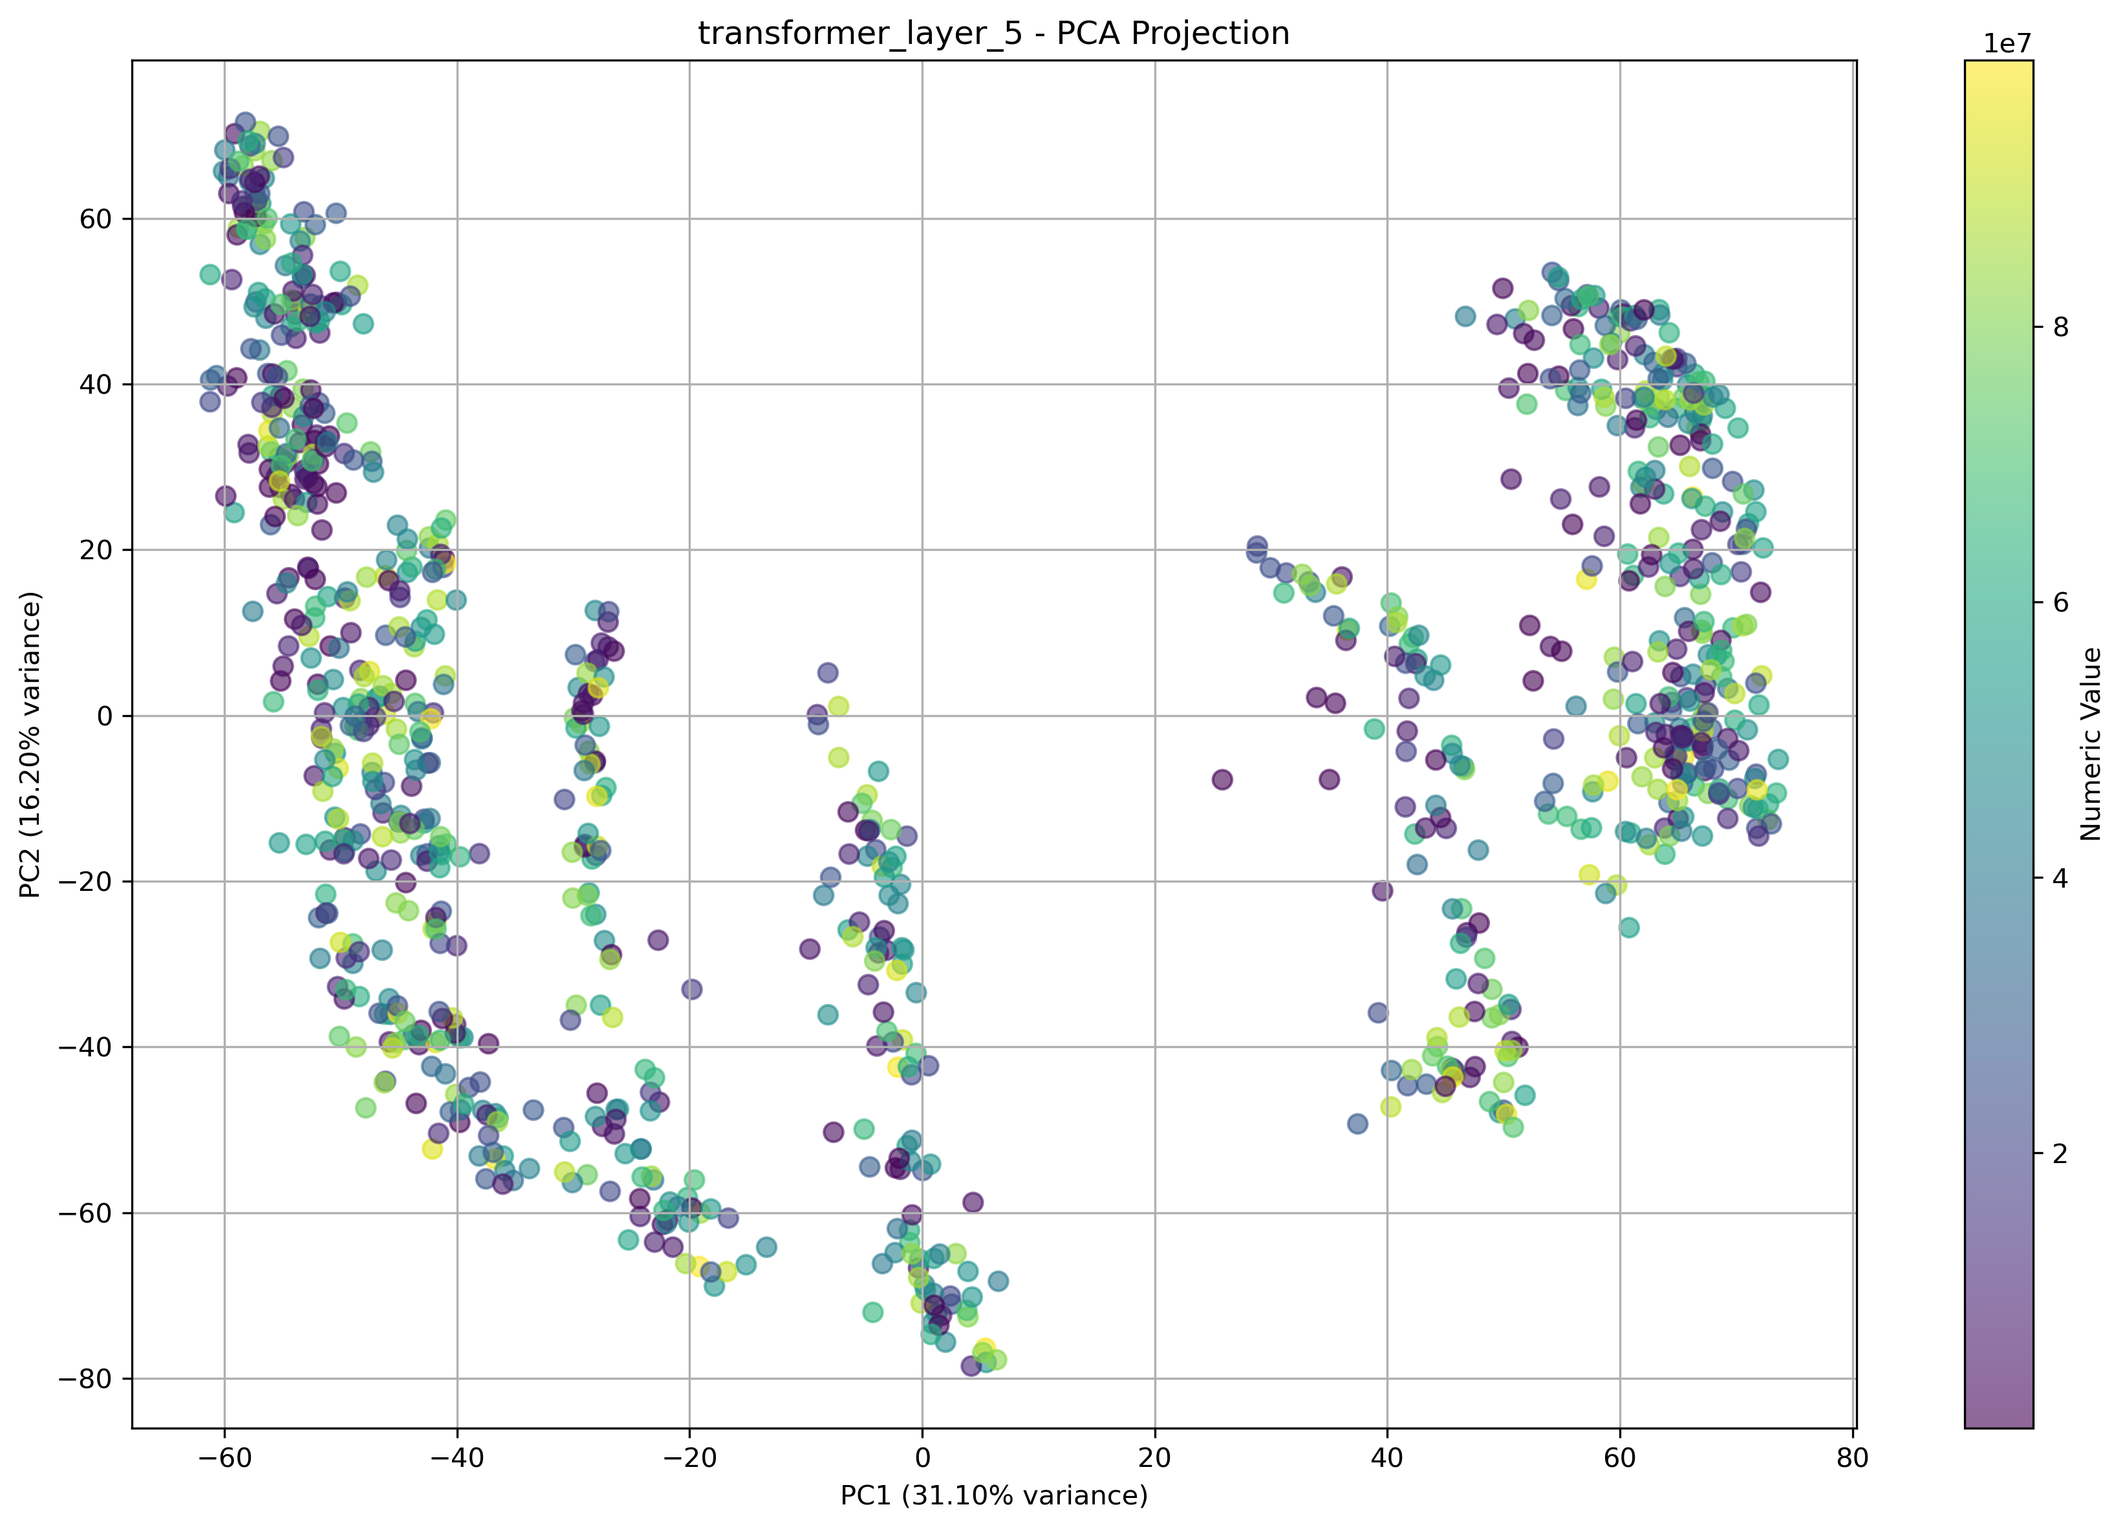
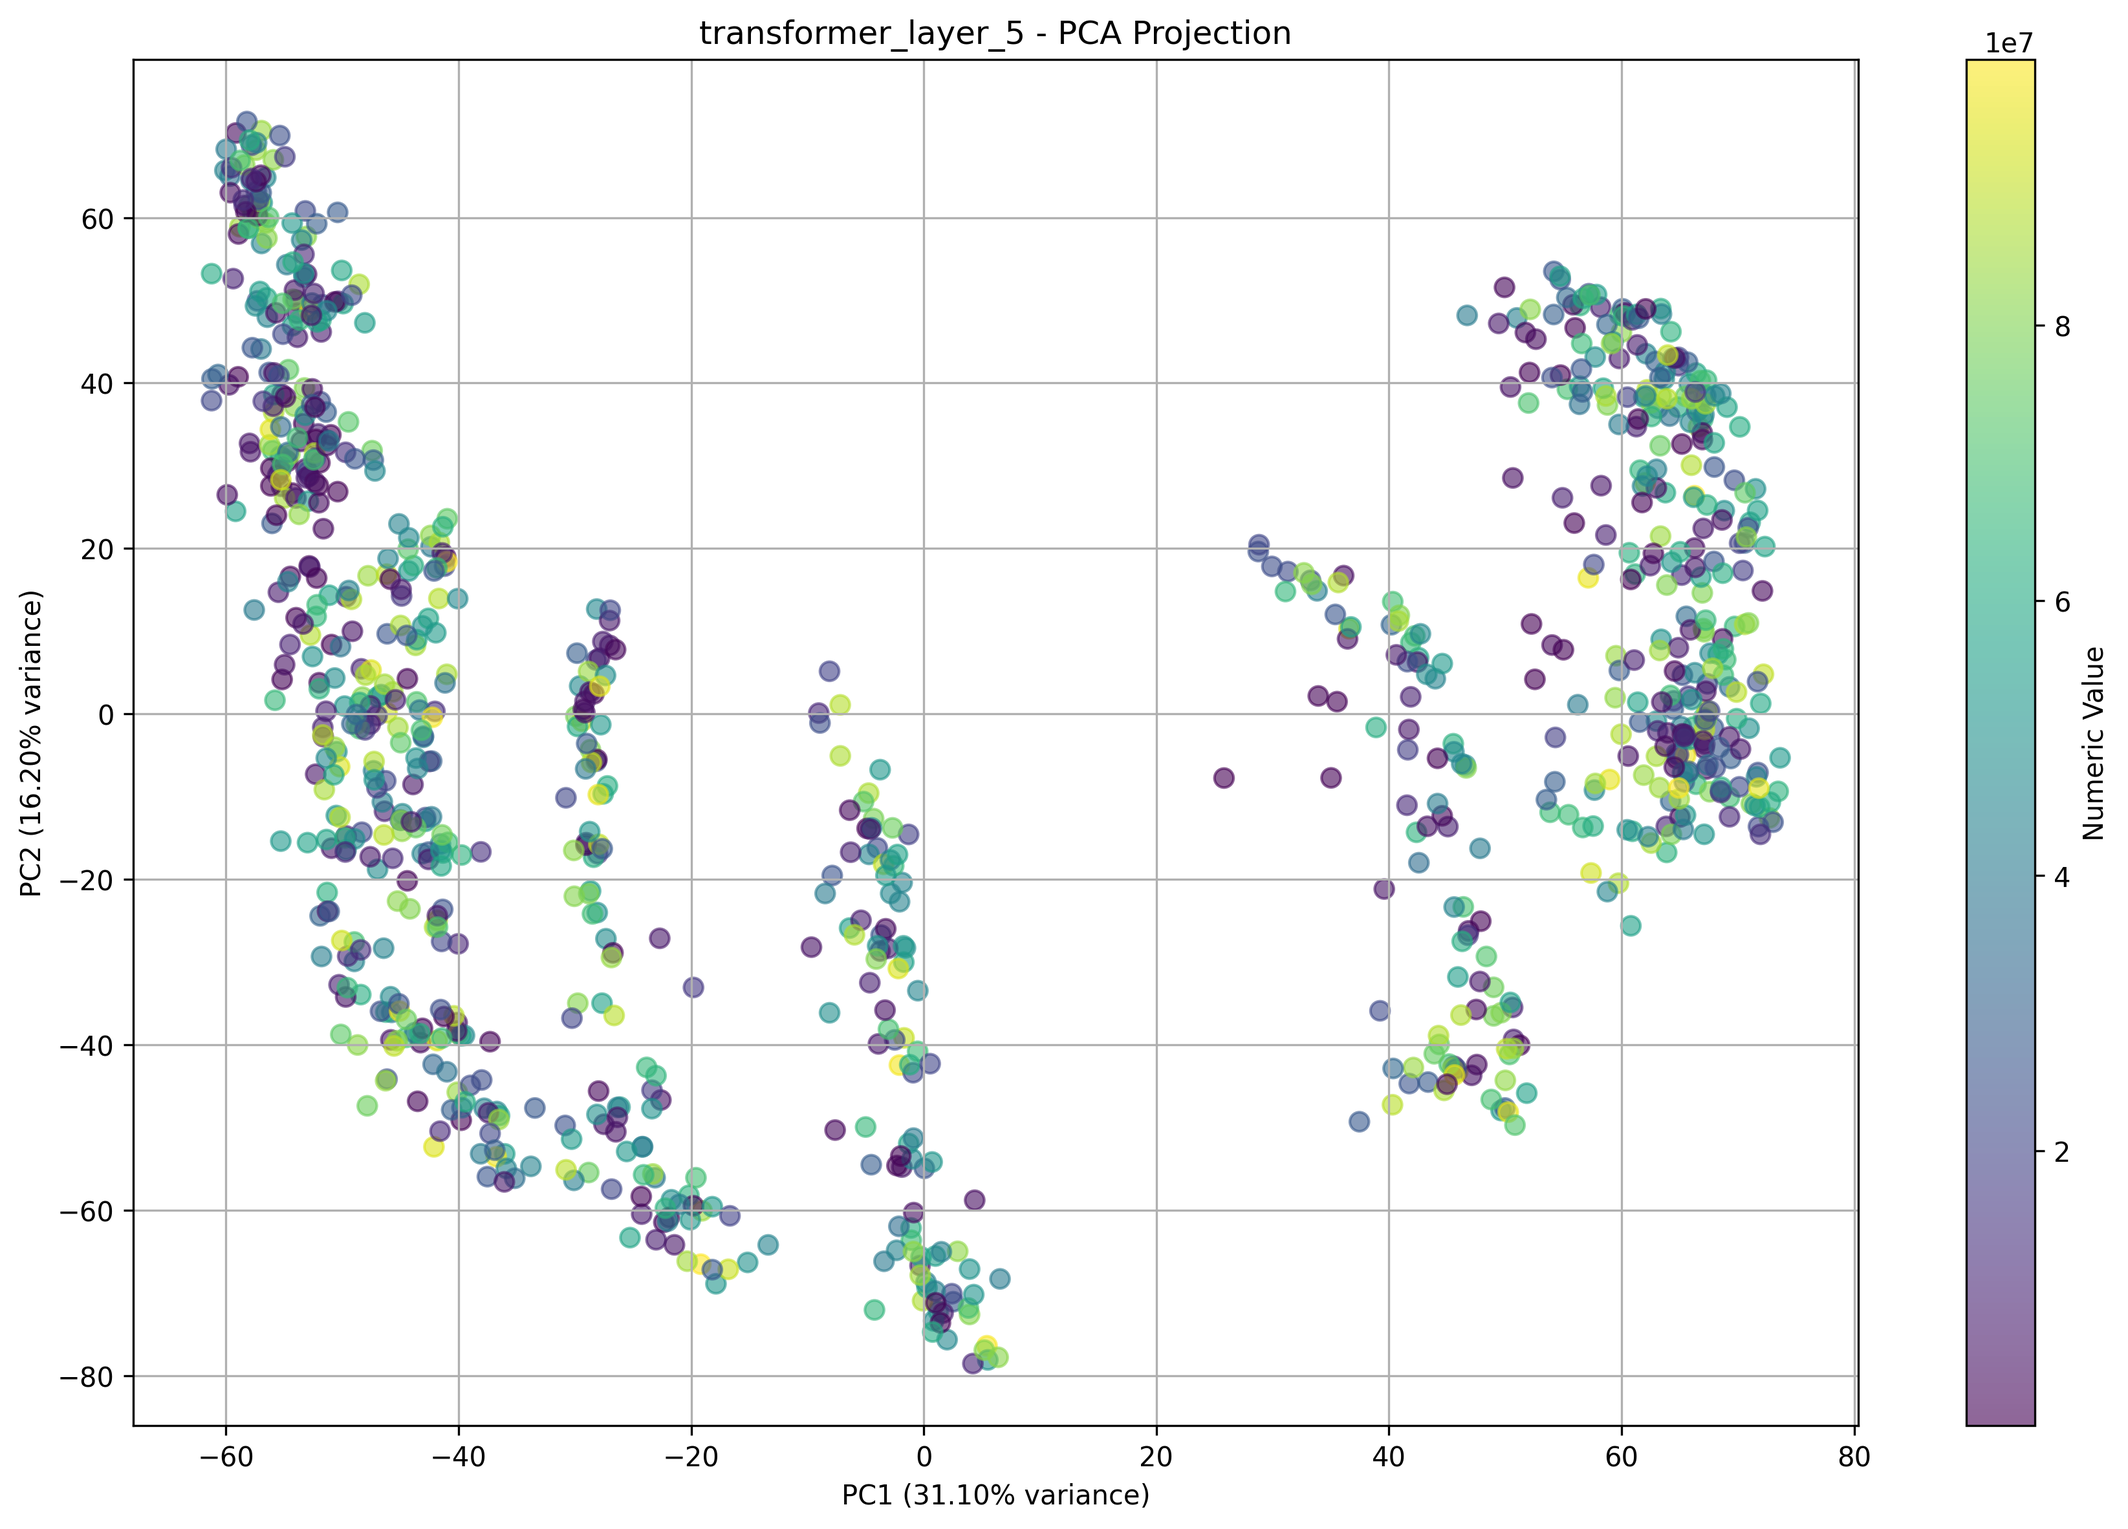
scale up pca

diff --git a/plotting/analyze_activations.py b/plotting/analyze_activations.py
@@ -1,4 +1,5 @@
 # # # analyze_activations.py
+#%% 
 
 import numpy as np
 from sklearn.decomposition import PCA
@@ -7,6 +8,11 @@ import os
 import seaborn as sns
 import argparse
 from typing import Dict, List, Tuple
+import plotly.graph_objects as go
+import sys
+
+#%% 
+
 def extract_labels_from_expressions(expressions_file: str) -> Tuple[List[str], np.ndarray]:
     """Extract sequences and convert them to numbers"""
     full_labels = []
@@ -15,15 +21,19 @@ def extract_labels_from_expressions(expressions_file: str) -> Tuple[List[str], n
     with open(expressions_file, 'r') as f:
         for line in f:
             parts = line.strip().split('#')
-            if len(parts) > 1:
-                sequence = parts[-1].strip()
-                full_labels.append(sequence)
+            parts2 = line.strip().split('||')
+            if len(parts) > 1 and len(parts2) > 1:
+                input = parts2[0].strip()[::-1]
+                output = parts[-1].strip()[::-1]
+                full_labels.append(f"{input} || {output}")
                 # Convert space-separated sequence to single number
-                num = int(''.join(sequence.split()))
+                num = int(''.join(output.split()))
                 numeric_values.append(num)
-    
     return full_labels, np.array(numeric_values)
 
+full_labels, numeric_values = extract_labels_from_expressions("data/4_by_4_mult/test_bigbench.txt")
+print(full_labels)
+#%% 
 def load_activations_with_labels(activation_dir: str, expressions_file: str):
     """Load activations from final folder and their corresponding labels"""
     full_labels, numeric_values = extract_labels_from_expressions(expressions_file)
@@ -69,30 +79,40 @@ def analyze_pca_with_math_labels(
         pca = PCA(n_components=2)
         transformed = pca.fit_transform(acts)
         
-        # Create scatter plot
-        plt.figure(figsize=(12, 8))
+        # Create interactive scatter plot with plotly
+        fig = go.Figure()
         
-        # Plot each point colored by its numeric value
-        scatter = plt.scatter(
-            transformed[:, 0], 
-            transformed[:, 1], 
-            c=numeric_values,
-            cmap='viridis',
-            alpha=0.6,
-            s=50
+        fig.add_trace(go.Scatter(
+            x=transformed[:, 0],
+            y=transformed[:, 1],
+            mode='markers',
+            marker=dict(
+                size=8,
+                color=numeric_values,
+                colorscale='Viridis',
+                colorbar=dict(title='Numeric Value'),
+                opacity=0.6
+            ),
+            text=full_labels,  # Add hover text showing full labels
+            hovertemplate='<b>Value:</b> %{marker.color}<br>' +
+                         '<b>Label:</b> %{text}<br>' +
+                         '<b>PC1:</b> %{x:.2f}<br>' +
+                         '<b>PC2:</b> %{y:.2f}<extra></extra>'
+        ))
+        
+        # Update layout
+        fig.update_layout(
+            title=f'{layer_name} - PCA Projection',
+            xaxis_title=f'PC1 ({pca.explained_variance_ratio_[0]:.2%} variance)',
+            yaxis_title=f'PC2 ({pca.explained_variance_ratio_[1]:.2%} variance)',
+            width=1000,
+            height=800,
+            template='plotly_white'  # Clean white background with grid
         )
         
-        # Add a colorbar
-        cbar = plt.colorbar(scatter)
-        cbar.set_label('Numeric Value')
-        
-        plt.title(f'{layer_name} - PCA Projection')
-        plt.xlabel(f'PC1 ({pca.explained_variance_ratio_[0]:.2%} variance)')
-        plt.ylabel(f'PC2 ({pca.explained_variance_ratio_[1]:.2%} variance)')
-        plt.grid(True)
-        plt.tight_layout()
-        plt.savefig(os.path.join(save_dir, f'{layer_name}_pca.png'), dpi=300, bbox_inches='tight')
-        plt.close()
+        # Show plot interactively
+        fig.show()
+        fig.write_image(os.path.join(save_dir, f'{layer_name}_pca.png'), scale=2)
 
 # def extract_labels_from_expressions(expressions_file: str) -> List[str]:
 #     """Extract full sequence labels from math expressions (all numbers after #)"""
@@ -340,18 +360,30 @@ def analyze_pca_with_math_labels(
 #     main()
 
 def main():
-    parser = argparse.ArgumentParser()
-    parser.add_argument('--activation_dir', type=str, required=True,
-                      help='Directory containing activation files')
-    parser.add_argument('--expressions_file', default='data/4_by_4_mult/test_bigbench.txt', type=str, required=True,
-                      help='File containing math expressions with labels')
-    parser.add_argument('--save_dir', type=str, default='pca_results_labels',
-                      help='Directory to save PCA results')
-    parser.add_argument('--visualization', type=str, default='both',
-                      choices=['scatter', 'density', 'both'],
-                      help='Type of visualization to generate')
-    args = parser.parse_args()
+    # Check if we're in a notebook environment
+    in_notebook = 'ipykernel' in sys.modules
     
+    if not in_notebook:
+        parser = argparse.ArgumentParser()
+        parser.add_argument('--activation_dir', type=str, required=True,
+                          help='Directory containing activation files')
+        parser.add_argument('--expressions_file', default='data/4_by_4_mult/test_bigbench.txt', type=str,
+                          help='File containing math expressions with labels')
+        parser.add_argument('--save_dir', type=str, default='pca_results_labels_2',
+                          help='Directory to save PCA results')
+        parser.add_argument('--visualization', type=str, default='both',
+                          choices=['scatter', 'density', 'both'],
+                          help='Type of visualization to generate')
+        args = parser.parse_args()
+    else:
+        # Default values for notebook environment
+        class Args:
+            def __init__(self):
+                self.activation_dir = "cached_activations"
+                self.expressions_file = "data/4_by_4_mult/test_bigbench.txt"
+                self.save_dir = "pca_results_labels_2"
+                self.visualization = "both"
+        args = Args()
     # print(f"Loading activations and labels...")
     # activations, labels = load_activations_with_labels(args.activation_dir, args.expressions_file)
     
@@ -375,3 +407,5 @@ def main():
 if __name__ == "__main__":
     main()
 
+
+# %%

diff --git a/src/activation_utils.py b/src/activation_utils.py
@@ -8,7 +8,7 @@ class ActivationCache:
         self.cache_dir = cache_dir
         self.activations: Dict[str, list] = {}  # layer_name -> list of activations
         self.input_length = None
-        self.first_pred_captured = False
+        self.first_pred_captured = {} # layer_name -> bool 
         self.checkpoint_every = checkpoint_every
         self.sample_count = 0
         os.makedirs(cache_dir, exist_ok=True)
@@ -16,23 +16,28 @@ class ActivationCache:
     def set_input_length(self, length: int):
         """Set the input length to know when prediction starts"""
         self.input_length = length
-        self.first_pred_captured = False
+        self.first_pred_captured = { layer_name: False for layer_name in self.activations.keys() }
         
     def cache_activation(self, activation: Union[torch.Tensor, Tuple], layer_name: str):
         """Cache activation for the first prediction token only"""
         if isinstance(activation, tuple):
             activation = activation[0]
         
-        # Only cache if this is the first prediction token
-        if activation.size(1) == 1 and not self.first_pred_captured:
+        # # Only cache if this is the first prediction token
+        # if activation.size(1) == 1 and not self.first_pred_captured:
+        if activation.size(1) == 1:
             # Take the activation for the last position (first prediction token)
             pred_activation = activation[:, -1, :]
             act_np = pred_activation.detach().cpu().numpy()
             
             if layer_name not in self.activations:
                 self.activations[layer_name] = []
+                self.first_pred_captured[layer_name] = False 
             
+            if self.first_pred_captured[layer_name]:
+                return 
             self.activations[layer_name].append(act_np)
+
             
             # Only count sample once per input (not per layer)
             if layer_name == sorted(self.activations.keys())[0]:  # Count only for first layer
@@ -42,7 +47,7 @@ class ActivationCache:
                 if self.sample_count % self.checkpoint_every == 0:
                     self.save_checkpoint()
             
-            self.first_pred_captured = True
+            self.first_pred_captured[layer_name] = True
     
     def save_checkpoint(self):
         """Save current activations as a checkpoint"""
@@ -67,18 +72,16 @@ class ActivationCache:
                     combined = np.concatenate(acts, axis=0)
                     save_path = os.path.join(final_dir, f"{layer_name}_first_pred.npy")
                     np.save(save_path, combined)
-                    print(f"Final: Saved {layer_name} activations of shape {combined.shape} to {save_path}")
             
     def clear(self):
         """Clear the activation cache"""
         self.activations.clear()
-        self.first_pred_captured = False
+        self.first_pred_captured = { layer_name: False for layer_name in self.activations.keys() }
 
 def get_activation_hook(cache: ActivationCache, layer_name: str):
     """Creates a hook function for capturing activations"""
-    def hook(module, input, output):
-        cache.cache_activation(output, layer_name)
-    return hook
+    # def hook(module, input, output):
+    return lambda module, input, output: cache.cache_activation(output, layer_name)
 
 def get_layer_by_name(model, layer_name: str):
     """Get a specific layer from the model based on the layer name"""
@@ -94,7 +97,9 @@ def attach_hooks_to_layers(model, layer_names: list, cache: ActivationCache):
     """Attach hooks to multiple layers in the model"""
     hooks = []
     for layer_name in layer_names:
+        print(f"Attaching hook to {layer_name}")
         layer = get_layer_by_name(model, layer_name)
-        hook = layer.register_forward_hook(get_activation_hook(cache, layer_name))
+        hook = layer.register_forward_hook(get_activation_hook(cache, layer_name), always_call=True)
         hooks.append(hook)
+    print(f"Attached {len(hooks)} hooks, {cache.activations}")
     return hooks

diff --git a/src/generate.py b/src/generate.py
@@ -36,11 +36,11 @@ def evaluate(dataloader, tokenizer, device, ctx, model, max_new_tokens,  layer_n
         from activation_utils import ActivationCache, attach_hooks_to_layers
         activation_cache = ActivationCache(cache_dir)
         hooks = attach_hooks_to_layers(model, layer_names, activation_cache)
-
+        print(f'hooks: {hooks}')
     try:
 
         for batch in tqdm.tqdm(dataloader):
-            input_ids_all = batch['input_ids_all']
+            input_ids_all = batch['input_ids_all'].to(device)
             labels = batch['labels_all']
             sep_positions = get_sep_position(input_ids_all, tokenizer.eos_token_id)
             input_ids = input_ids_all[:, :sep_positions.max()+1]
@@ -50,7 +50,6 @@ def evaluate(dataloader, tokenizer, device, ctx, model, max_new_tokens,  layer_n
             # Set input length for activation caching
             if activation_cache is not None:
                 activation_cache.set_input_length(input_ids.size(1))
-
             # Generate
             start_time = time.time()
             beam_output = model.generate(
@@ -76,12 +75,11 @@ def evaluate(dataloader, tokenizer, device, ctx, model, max_new_tokens,  layer_n
                 print (f'Target: {tgt_text}')
                 print (f'Predicted: {pred_text}')
                 print ('')
-
-            
-                
             
             if layer_names and activation_cache is not None:
                 activation_cache.save_to_disk(final=True)
+
+            # break
         
     finally:
         if hooks:
@@ -106,14 +104,14 @@ def main():
     parser.set_defaults(bf16=False)
     args = parser.parse_args()
 
-    print (args)
+    print(args)
 
     if args.bf16:
         dtype = 'bfloat16'
     else:
         dtype = 'float32'
     ptdtype = {'float32': torch.float32, 'bfloat16': torch.bfloat16, 'float16': torch.float16}[dtype]
-    device = torch.device('cuda' if torch.cuda.is_available() else 'cpu')
+    device = torch.device('cuda:5' if torch.cuda.is_available() else 'cpu')
     # ctx = torch.amp.autocast(device_type='cuda', dtype=ptdtype)
     ctx = torch.amp.autocast(device_type='cpu', dtype=ptdtype)
     print (ptdtype, dtype, device)
@@ -129,7 +127,6 @@ def main():
     collate_fn = CoTDataCollator(tokenizer)
     test_dataset = CoTDataset(tokenizer, args.test_path, args.truncation)
     test_dataloader = DataLoader(test_dataset, batch_size=args.batch_size, collate_fn=collate_fn, shuffle=False)
-
     
     accuracy, throughput = evaluate(
         test_dataloader, 

diff --git a/plotting/utils.py b/plotting/utils.py
@@ -1,0 +1,50 @@
+import os
+import matplotlib.pyplot as plt
+import glob
+from PIL import Image
+import argparse
+
+def concat_plots_from_folder(folder_path="pca_results_labels_2"):
+    """
+    Concatenates all images in the given folder into a single plot
+    
+    Args:
+        folder_path (str): Path to folder containing images to concatenate
+    """
+    # Get all image files in folder
+    image_files = sorted(glob.glob(os.path.join(folder_path, "*.png")))
+    
+    if not image_files:
+        print(f"No image files found in {folder_path}")
+        return
+        
+    # Open all images
+    images = [Image.open(f) for f in image_files]
+    
+    # Get dimensions
+    widths, heights = zip(*(i.size for i in images))
+    
+    # Calculate layout
+    n = len(images)
+    nrows = int(n**0.5)  # Square root for roughly square layout
+    ncols = (n + nrows - 1) // nrows  # Ceiling division
+    
+    # Create figure
+    fig = plt.figure(figsize=(20, 20))
+    
+    # Add each image as a subplot
+    for idx, img in enumerate(images):
+        ax = fig.add_subplot(nrows, ncols, idx+1)
+        ax.imshow(img)
+        ax.axis('off')
+        ax.set_title(os.path.basename(image_files[idx]))
+    
+    plt.tight_layout(pad=0.5) # Reduced padding between subplots
+    plt.savefig(os.path.join(folder_path, "combined_plot.png"), bbox_inches='tight')
+    plt.close()
+
+if __name__ == "__main__":
+    parser = argparse.ArgumentParser()
+    parser.add_argument("--folder_path", type=str, default="pca_results_labels_2")
+    args = parser.parse_args()  
+    concat_plots_from_folder(args.folder_path)
